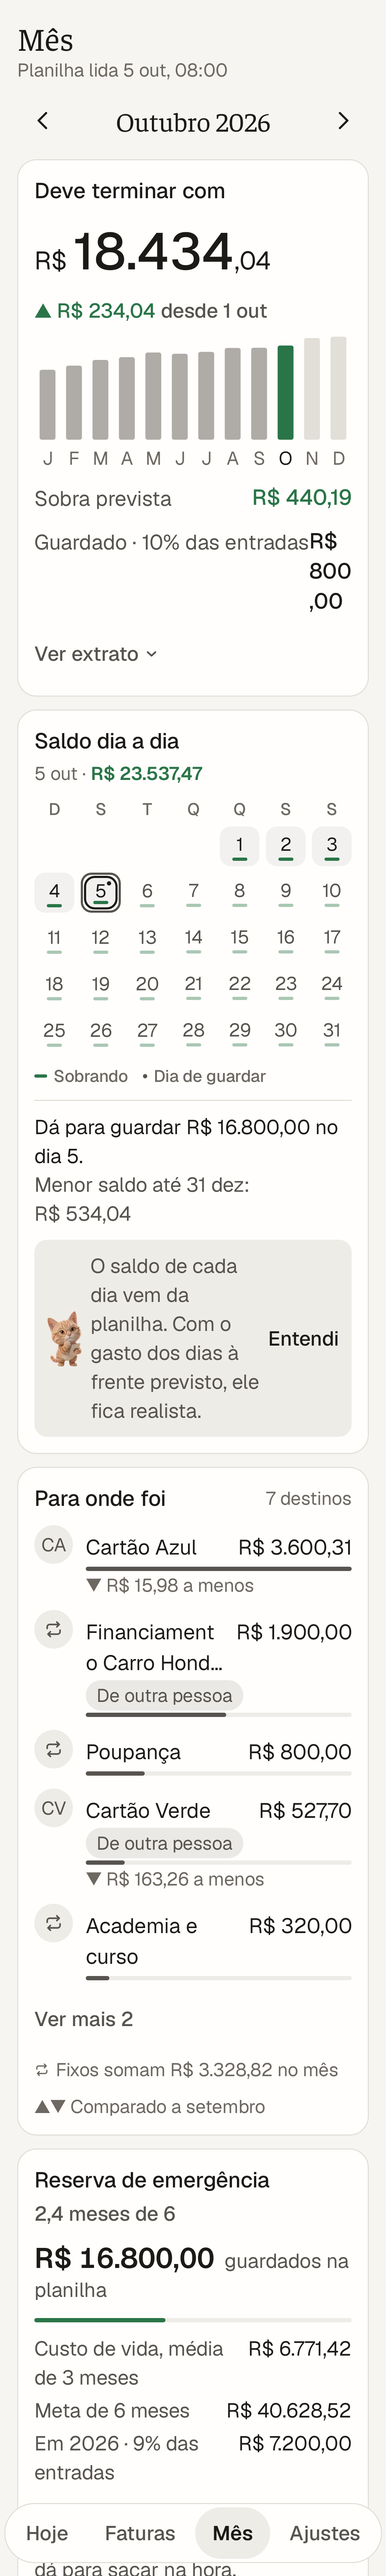
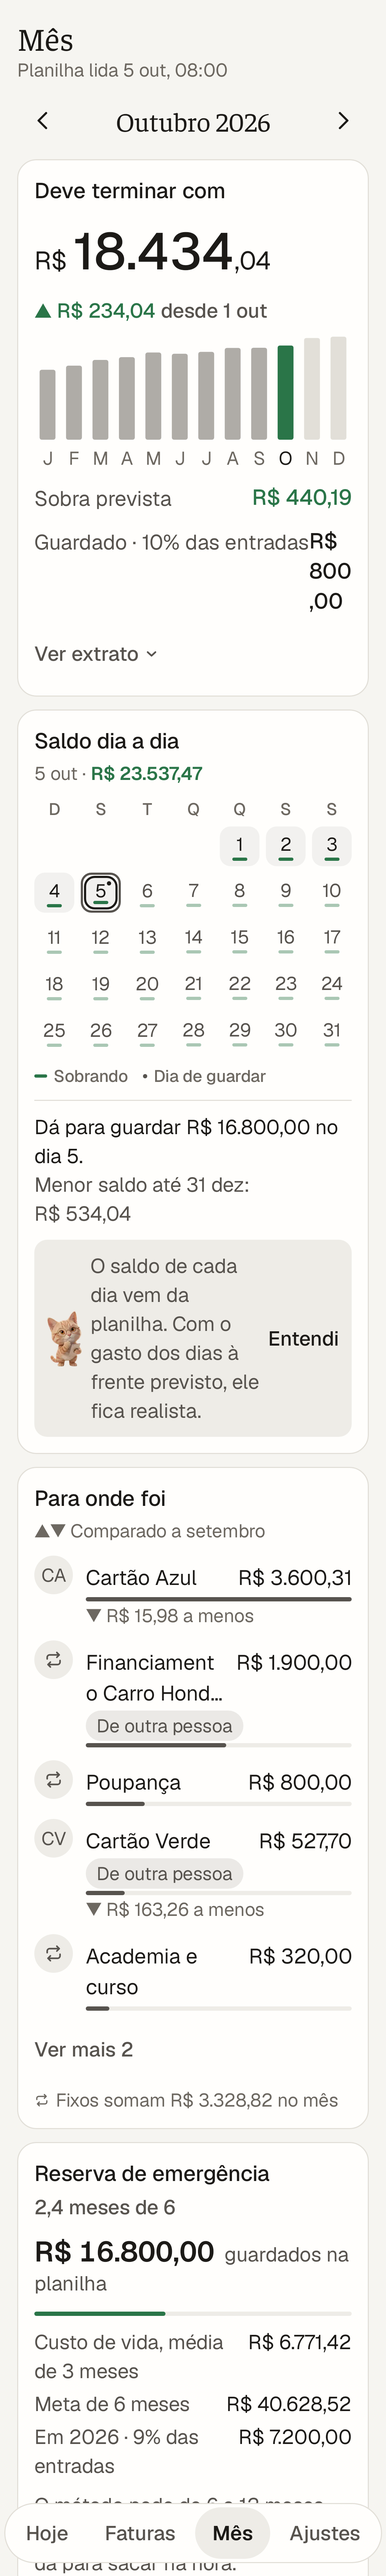
Sobe a legenda "▲▼ Comparado a setembro" para o topo do "Para onde foi" e tira uma linha do rodapé (#75)
As setas de comparação eram explicadas numa linha própria embaixo da lista, junto com a soma dos fixos. A legenda passa a ocupar o lugar da contagem de destinos no título, que o "Ver mais" já dava.

Claude-Session: https://claude.ai/code/session_015puGdtXzviPEaqxJtpNLAQ

diff --git a/apps/android/app/src/main/kotlin/dev/johnlaff/neko/ui/MesScreen.kt b/apps/android/app/src/main/kotlin/dev/johnlaff/neko/ui/MesScreen.kt
@@ -281,9 +281,15 @@ private fun Outflows(m: MonthItem) {
     val top = m.outflows.first().amount
     val rest = m.outflows.size - OUTFLOWS_SHOWN
     Panel {
+        // The arrows' legend lives in the head, not in a line of its own under the list.
+        val compared = m.outflows.any { (it.change ?: 0L) != 0L }
         PanelHead("Para onde foi") {
             Text(
-                if (m.outflows.size == 1) "1 destino" else "${m.outflows.size} destinos",
+                when {
+                    compared -> "▲▼ Comparado a ${monthName(if (m.month == 1) 12 else m.month - 1)}"
+                    m.outflows.size == 1 -> "1 destino"
+                    else -> "${m.outflows.size} destinos"
+                },
                 color = l.faint,
                 style = MaterialTheme.typography.labelMedium,
             )
@@ -295,10 +301,6 @@ private fun Outflows(m: MonthItem) {
                 androidx.compose.material3.Icon(painterResource(R.drawable.ic_repeat), contentDescription = null, tint = l.faint, modifier = Modifier.size(14.dp))
                 Text("Fixos somam ${money(m.fixedTotal)} no mês", color = l.faint, style = MaterialTheme.typography.labelMedium)
             }
-        }
-        if (m.outflows.any { (it.change ?: 0L) != 0L }) {
-            val before = monthName(if (m.month == 1) 12 else m.month - 1)
-            Text("▲▼ Comparado a $before", color = l.faint, style = MaterialTheme.typography.labelMedium)
         }
     }
 }

diff --git a/apps/neko/src/web/screens/Mes.tsx b/apps/neko/src/web/screens/Mes.tsx
@@ -183,12 +183,23 @@ const Outflows = ({
   const top = items[0]?.amount ?? 0;
   const shown = items.slice(0, OUTFLOWS_SHOWN);
   const rest = items.slice(OUTFLOWS_SHOWN);
+  const compared = items.some((o) => o.change != null && o.change !== 0);
   return (
     <section className={`panel${half ? " half" : ""}`}>
       <div className="panel-head">
         <h2>Para onde foi</h2>
         <span className="meta">
-          {items.length === 1 ? "1 destino" : `${items.length} destinos`}
+          {/* The arrows' legend lives here, not in a line of its own under the list. */}
+          {compared ? (
+            <>
+              <span aria-hidden="true">▲▼ </span>
+              Comparado a {before}
+            </>
+          ) : items.length === 1 ? (
+            "1 destino"
+          ) : (
+            `${items.length} destinos`
+          )}
         </span>
       </div>
       <OutflowRows items={shown} fixed={fixed} top={top} trend={trend} />
@@ -205,12 +216,6 @@ const Outflows = ({
         <p className="hint fixed-sum">
           <IconRepeat />
           Fixos somam {money(fixedTotal)} no mês
-        </p>
-      )}
-      {items.some((o) => o.change != null && o.change !== 0) && (
-        <p className="hint">
-          <span aria-hidden="true">▲▼ </span>
-          Comparado a {before}
         </p>
       )}
     </section>
